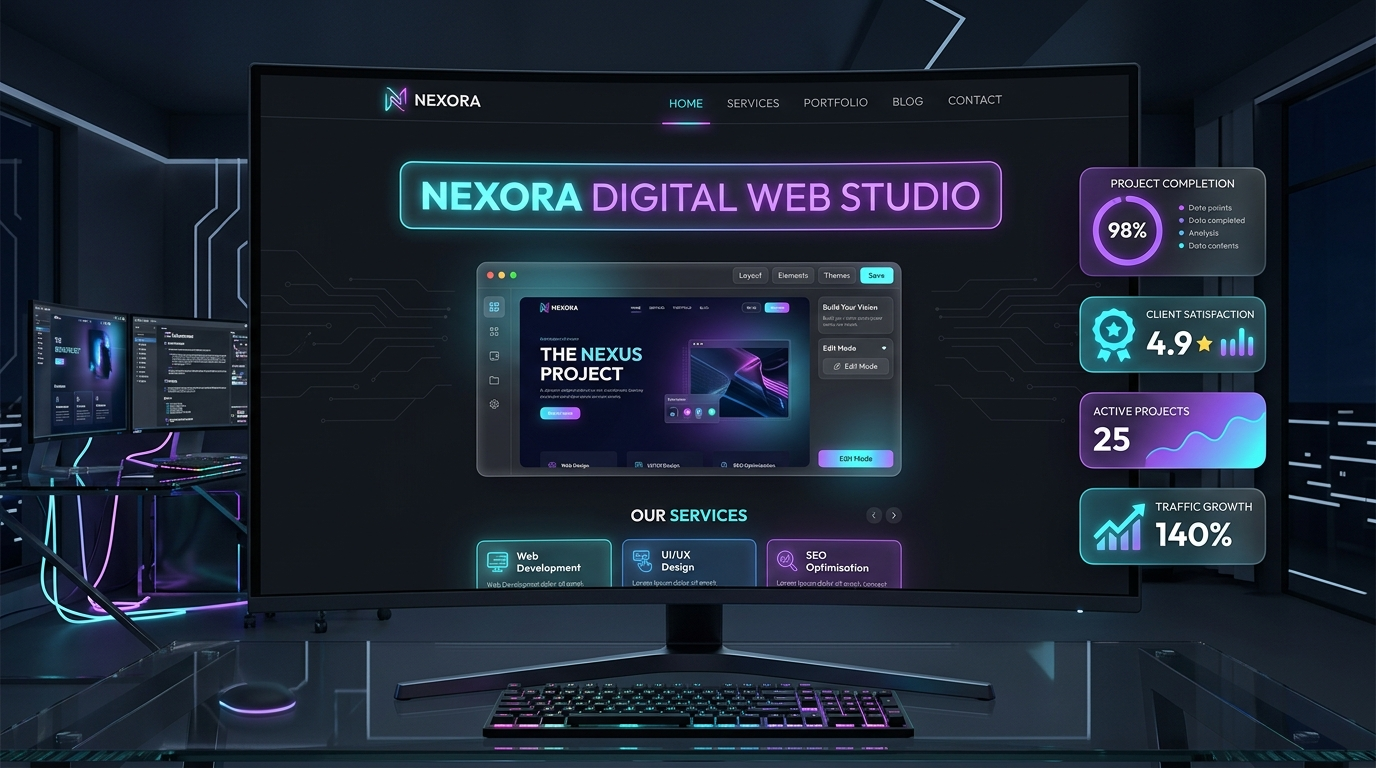
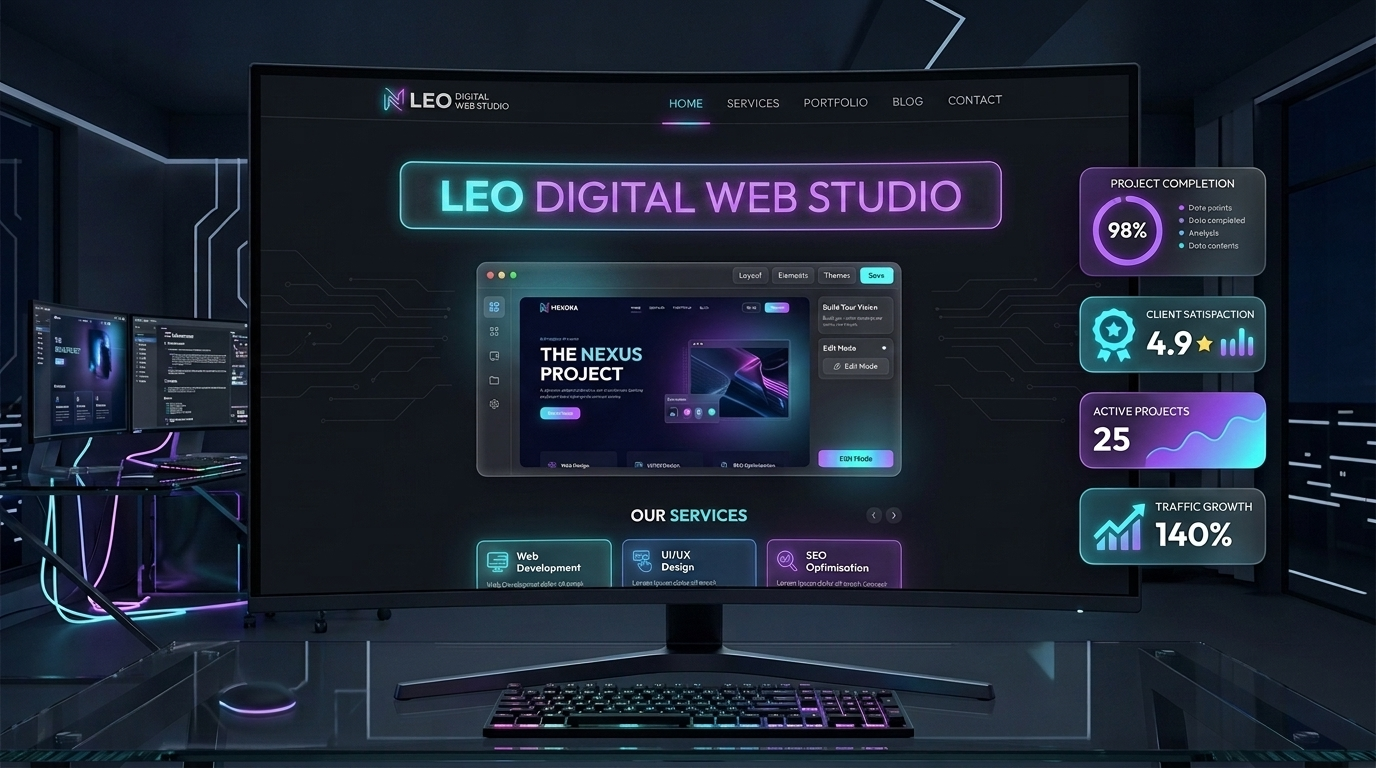
Update hero image and brand text to LEO STUDIO

diff --git a/demo.html b/demo.html
@@ -3,8 +3,8 @@
 <head>
   <meta charset="UTF-8">
   <meta name="viewport" content="width=device-width, initial-scale=1.0">
-  <title>NEXORA | Premium Web Design & Development Studio</title>
-  <meta name="description" content="NEXORA Web Design Studio - High-converting modern websites for business growth. Mobile responsive, super fast, and SEO optimized.">
+  <title>LEO | Premium Web Design & Development Studio</title>
+  <meta name="description" content="LEO Web Design Studio - High-converting modern websites for business growth. Mobile responsive, super fast, and SEO optimized.">
   <link rel="stylesheet" href="styles.css">
 </head>
 <body>
@@ -16,15 +16,15 @@
   <!-- Navigation -->
   <nav class="navbar">
     <a href="#" class="brand">
-      <div class="brand-icon">N</div>
-      <span class="brand-name">NEXORA STUDIO</span>
+      <div class="brand-icon">L</div>
+      <span class="brand-name">LEO STUDIO</span>
     </a>
     <ul class="nav-links">
       <li><a href="#showcase" class="nav-link">Live Demos</a></li>
       <li><a href="#features" class="nav-link">Why Us</a></li>
       <li><a href="#calculator" class="nav-link">Cost Estimator</a></li>
     </ul>
-    <a href="https://wa.me/918429930881?text=Hi%20NEXORA!%20I%20want%20a%20website%20for%20my%20business." target="_blank" class="btn-primary">
+    <a href="https://wa.me/918429930881?text=Hi%20LEO!%20I%20want%20a%20website%20for%20my%20business." target="_blank" class="btn-primary">
       💬 Chat on WhatsApp
     </a>
   </nav>
@@ -47,7 +47,7 @@
       </div>
     </div>
     <div class="hero-image-wrapper">
-      <img src="assets/hero.jpg" alt="NEXORA Web Studio UI Preview" class="hero-img">
+      <img src="assets/hero.jpg" alt="LEO Web Studio UI Preview" class="hero-img">
       <div class="stat-badge">
         <div class="stat-icon">⭐</div>
         <div>
@@ -134,7 +134,7 @@
 
   <!-- Footer -->
   <footer>
-    <p>© 2026 NEXORA Digital Studio. Crafted for Business Growth & High Conversion.</p>
+    <p>© 2026 LEO Digital Studio. Crafted for Business Growth & High Conversion.</p>
   </footer>
 
   <script src="script.js"></script>

diff --git a/script.js b/script.js
@@ -55,7 +55,7 @@ function renderCards(filter = "all") {
       <ul class="feature-list">
         ${item.features.map(f => `<li class="feature-item"><span class="feature-check">✓</span> ${f}</li>`).join("")}
       </ul>
-      <a href="https://wa.me/918429930881?text=Hi%20NEXORA!%20I%20want%20to%20see%20the%20${encodeURIComponent(item.title)}%20demo." target="_blank" class="card-btn">
+      <a href="https://wa.me/918429930881?text=Hi%20LEO!%20I%20want%20to%20see%20the%20${encodeURIComponent(item.title)}%20demo." target="_blank" class="card-btn">
         🚀 Is Design Ka Demo Dekhein
       </a>
     </div>
@@ -97,7 +97,7 @@ function updatePrice() {
 
   const bookBtn = document.getElementById("btn-book-quote");
   if (bookBtn) {
-    const msg = `Hi NEXORA! I calculated my website cost: ${formattedPrice} (${typeVal.toUpperCase()}, ${pagesVal} Pages, ${addonVal.toUpperCase()}). I want to order this package!`;
+    const msg = `Hi LEO! I calculated my website cost: ${formattedPrice} (${typeVal.toUpperCase()}, ${pagesVal} Pages, ${addonVal.toUpperCase()}). I want to order this package!`;
     bookBtn.href = `https://wa.me/918429930881?text=${encodeURIComponent(msg)}`;
   }
 }

diff --git a/index.html b/index.html
@@ -16,7 +16,7 @@
   <!-- Navigation -->
   <nav class="navbar">
     <a href="#" class="brand">
-      <div class="brand-icon">N</div>
+      <div class="brand-icon">L</div>
       <span class="brand-name">LEO STUDIO</span>
     </a>
     <ul class="nav-links">
@@ -24,7 +24,7 @@
       <li><a href="#features" class="nav-link">Why Us</a></li>
       <li><a href="#calculator" class="nav-link">Cost Estimator</a></li>
     </ul>
-    <a href="https://wa.me/918429930881?text=Hi%20NEXORA!%20I%20want%20a%20website%20for%20my%20business." target="_blank" class="btn-primary">
+    <a href="https://wa.me/918429930881?text=Hi%20LEO!%20I%20want%20a%20website%20for%20my%20business." target="_blank" class="btn-primary">
       💬 Chat on WhatsApp
     </a>
   </nav>
